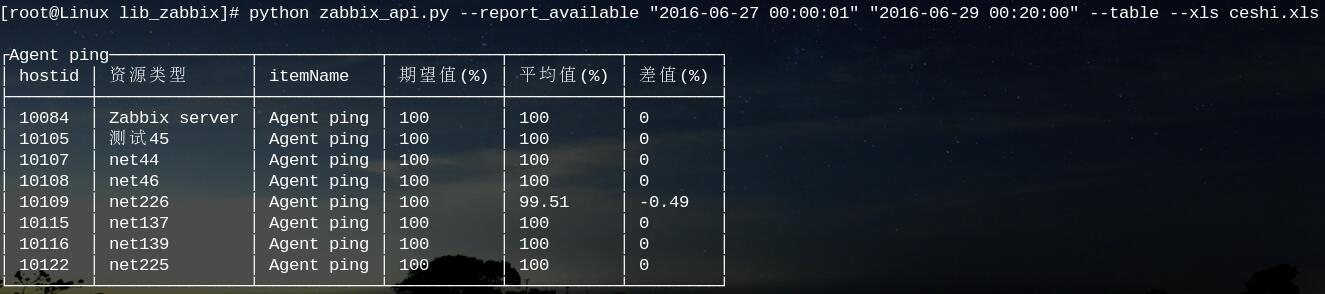
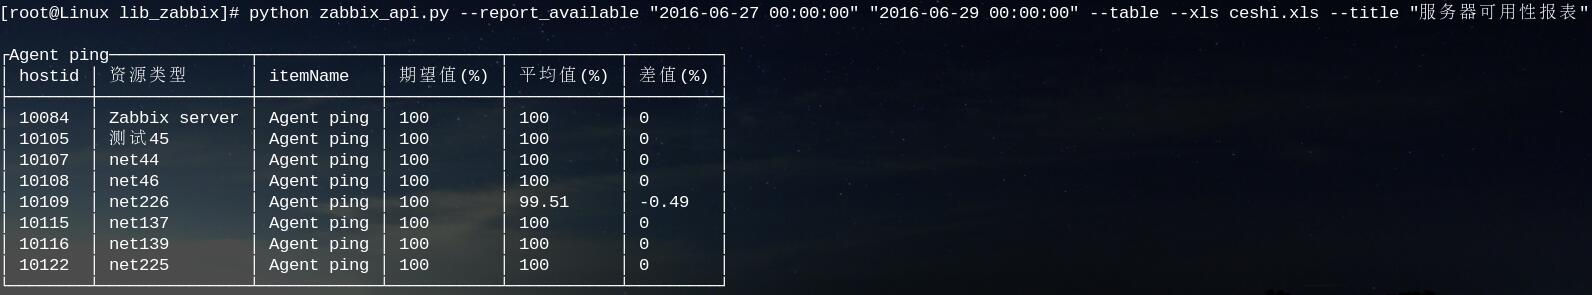
add report

Changed region(s): [[0.0, 0.1531, 0.557, 1.0], [0.0, 0.0, 1.0, 0.0918], [0.9592, 0.949, 0.9902, 1.0]]

diff --git a/ManagerTool/lib_zabbix/zabbix_api.py b/ManagerTool/lib_zabbix/zabbix_api.py
@@ -678,7 +678,7 @@ class zabbix_api:
             else:
                 xlswriter.add_image("python.bmg",0,0,sheet_name=sheetName)
             xlswriter.add_header(u"报告周期:"+sheetName,6,sheet_name=sheetName)
-            xlswriter.setcol_width([10,20,20,10,10,10],sheet_name=sheetName)
+            xlswriter.setcol_width([20,20,20,10,10,10],sheet_name=sheetName)
             xlswriter.writerow(["hostid",u"资源类型","itemName",u"期望值(%)",u"平均值(%)",u"差值(%)"],sheet_name=sheetName,border=True,pattern=True)
         time_from = int(time.mktime(startTime))+1
         time_till = int(time.mktime(endTime))

diff --git a/ManagerTool/docs/report.md b/ManagerTool/docs/report.md
@@ -10,7 +10,7 @@ report 包括以下内容
 服务器可用性报表
     
 + 服务器可用性报表使用Agent ping计算，Agent ping 成功时会入库1，如果失败时，则不入库。
-+ trend会每个小时将history中的值计算出最大值，最小值，和平均值，这里我们需要的是trend小时的记录个数即可，有两点需要注意，(1)trend记录的是前一天之前的数据，比如今天是2016年06月29日10点，那tren中最新的数据也只是2016年06月29日00点00分的数据,即2016-06-28 23:00:00~2016-06-29 00:00:00的数据。(2)搜索trend数据时，假如搜索前一天的话，应该是搜索时间为2016-06-28 00:00:01到2016-06-29 00:00:00 ,因为如果输入2016-06-28 00:00:00的话，会将2016-06-27 23:59:01~2016-06-28 00:00:00的时间段的值加到其中
++ trend会每个小时将history中的值计算出最大值，最小值，和平均值，这里我们需要的是trend小时的记录个数即可
 
 服务器日常使用报表
 
@@ -28,3 +28,12 @@ report 包括以下内容
 ![Screenshot](https://github.com/BillWang139967/zabbix_manager/raw/master/images/report_available_xls.jpg)
 
 <h3>1.4.2 服务器日常使用报表</h3>
+
+输出显示时加--table可以表框显示
+![Screenshot](https://github.com/BillWang139967/zabbix_manager/raw/master/images/report_table.jpg)
+
+输出显示时加--xls ceshi.xls可以导出excel文件，
+
+同时加--title可以输出logo旁边的title name如下
+
+![Screenshot](https://github.com/BillWang139967/zabbix_manager/raw/master/images/report_xls.jpg)
